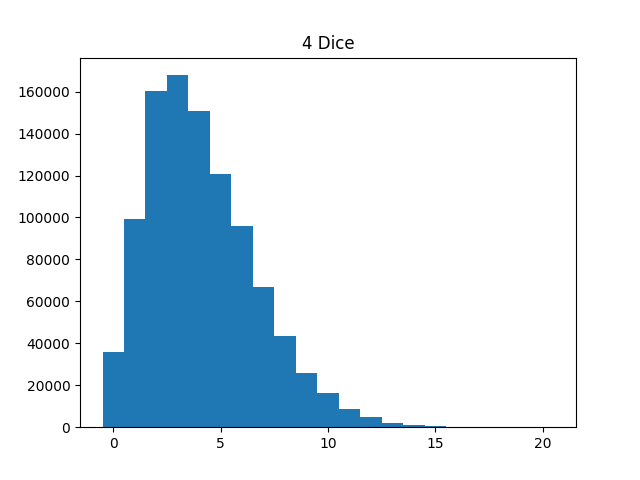
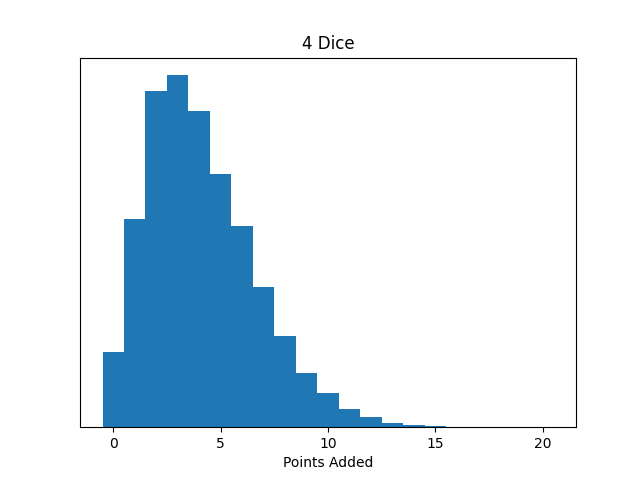
improved visualizations

diff --git a/visualizations.py b/visualizations.py
@@ -3,8 +3,24 @@ import matplotlib.pyplot as plt
 
 if __name__ == "__main__":
     d = DistributionLoader.load("default")
+
     for i in range(len(d.distributions)):
         plt.hist(d.distributions[i], bins=[-0.5 + j for j in range(max(d.distributions[i])+2)])
         plt.title(f"{i} Dice")
+        plt.yticks([])
+        plt.xlabel("Points Added")
         plt.savefig(f"visualizations/{i}.png")
         plt.show()
+
+    # all plot
+    rows = 2
+    cols = 3
+    fig, axs = plt.subplots(rows, cols)
+    
+    for i in range(len(d.distributions)):
+        axs[i // cols, i % cols].hist(d.distributions[i], bins=[-0.5 + j for j in range(max(d.distributions[i])+2)])
+        axs[i // cols, i % cols].set_title(f"{i} Dice")
+        axs[i // cols, i % cols].set(yticks=[])
+        
+    
+    plt.show()
